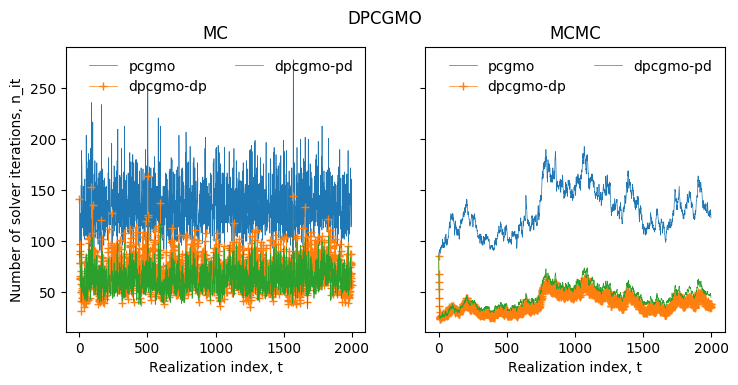
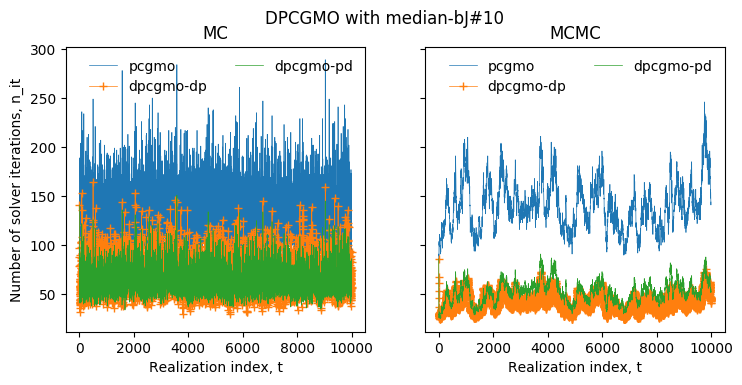
first-commit

diff --git a/recyclers.py b/recyclers.py
@@ -223,14 +223,13 @@ class recycler:
 
         elif (self.approx == "RR"):
           # Rayleigh-Ritz approximation (requires M.W and M.P, i.e. not invM.W and invM.P)
-          if (self.solver.kdim > 0):
-            MW = np.zeros((self.sampler.n, self.solver.kdim))
-            for k in range(self.solver.kdim):
-              MW = self.solver.apply_M(self.solver.W[:,k])
-          if (self.solver.ell > 0):
-            MP = np.zeros((self.sampler.n, self.solver.ell))
-            for l in range(self.solver.ell):
-              MP = self.solver.apply_M(self.solver.P[:,l]) 
+          if (self.solver.precond_id == 2):
+            print('Error: Rayleigh-Ritz approximation not available for dpcgmo-dp with AMG preconditioner')
+          else:
+            if (self.solver.kdim > 0):
+              MW = self.solver.M.dot(self.solver.W) 
+            if (self.solver.ell > 0):
+              MP = self.solver.M.dot(self.solver.P) 
           # Buid F:
           if (self.solver.kdim > 0): 
             F[:self.solver.kdim,:self.solver.kdim] = self.solver.W.T.dot(MW)

diff --git a/examples/example06_recycler.py b/examples/example06_recycler.py
@@ -8,7 +8,7 @@ import numpy as np
 figures_path = '../figures/'
 
 nEl = 1000
-nsmp = 2000
+nsmp = 10000
 sig2, L = .357, 0.05
 model = "Exp"
 
@@ -86,7 +86,7 @@ ax[1].plot(dpcgmo_it[("mcmc", "dp")], "-+", lw=0.5, label="dpcgmo-dp")
 ax[1].plot(dpcgmo_it[("mcmc", "pd")], lw=0.5, label="dpcgmo-pd")
 ax[0].set_ylabel("Number of solver iterations, n_it")
 ax[0].set_xlabel("Realization index, t"); ax[1].set_xlabel("Realization index, t")
-fig.suptitle("DPCGMO")
+fig.suptitle("DPCGMO with median-bJ#10")
 ax[0].legend(frameon=False, ncol=2); ax[1].legend(frameon=False, ncol=2)
 #pl.show()
 pl.savefig(figures_path+"example06_recycler.png", bbox_inches='tight')

diff --git a/solvers.py b/solvers.py
@@ -8,7 +8,7 @@ class solver:
   """ Solves a linear system iteratively. 
 
       Public methods:
-        set_precond, presolve, solve.
+        set_precond, presolve, apply_invM, solve.
   """
   def __init__(self, n, solver_type, eps=1e-7, itmax=4000, W=None, ell=0):
     self.n = n

diff --git a/README.tex.md b/README.tex.md
@@ -80,7 +80,7 @@ Classes: `sampler`, `solver`, `recycler`.
 
 
 
-  Public methods : `set_precond`, `presolve`, `solve`.
+  Public methods : `set_precond`, `presolve`, `apply_invM`, `solve`.
 
   Signature : `set_precond`(`self`, `Mat`, `precond_id`, `nb`=`2`, `application_type`=`1`)
 
@@ -187,7 +187,8 @@ Examples:
 - _example02_solver.py_ : Shows how to use the `solver` class to solve MC and MCMC sampled sequences of systems by PCG.
 - _example03_recycler.py_ : Shows how to use the `recycler` class to solve a MCMC sampled sequences of systems by PCGMO using constant and realization-dependent preconditioners. 
 - _example04_recycler.py_ : Shows the effect of `kl_strategy` and `which_op` on DCGMO results for sequences of systems sampled by MC, and by MCMC.
-- _example05_recycler.py_ : Shows the effect of something on DPCGMO.
+- _example05_recycler.py_ : Shows the effect of `t_end_def` on DPCGMO.
+- _example06_recycler.py_ : Shows the effect of `dp_seq` on DPCGMO.
 
 #### Example #1: example01_sampler.py
 
